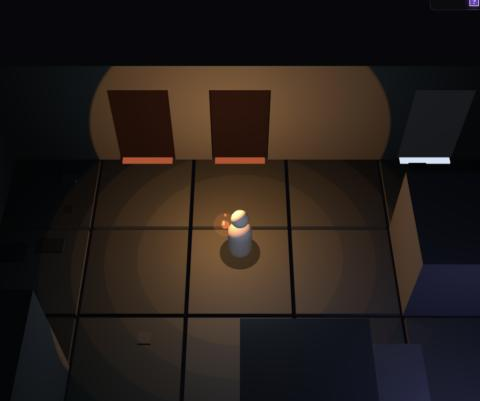
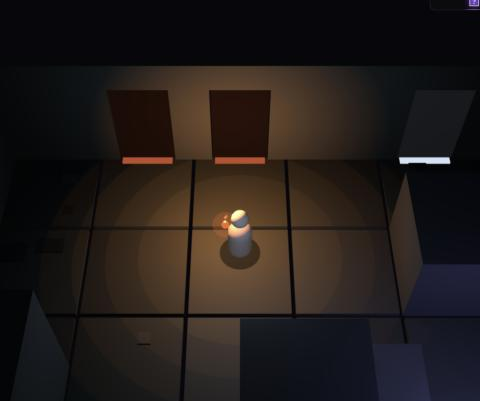
procedural-dungeon-engine: walls fade smoothly instead of a hard lamp edge
Upright faces skip the hard edge and bands: they ramp to dark across the
bands' stretch (LIGHT.wallSmooth, wallCurve), roughly matching the floor's
steps. Replaces wallBands.

diff --git a/sketches/procedural-dungeon-engine/app/walk/lamp.js b/sketches/procedural-dungeon-engine/app/walk/lamp.js
@@ -304,7 +304,8 @@
     soft: 0.03,         // cells: anti-aliasing across the edge (0 is razor sharp)
     sphere: true,       // the edge is a sphere around the lamp (off: a cylinder, cut straight up walls)
     banded: true,       // step the light down in bands just inside the edge (on the floor and block tops)
-    wallBands: 0,       // how much walls and other upright faces band too (0: the plain edge, 1: as the floor)
+    wallSmooth: 1,      // walls and other upright faces: 1 a smooth falloff over the bands' stretch, 0 cut like the floor
+    wallCurve: 1,       // the walls' falloff: 1 a straight ramp (about the bands' average); over 1 darker sooner
     bands: 3,           // how many
     bandWidth: 0.32,    // cells each, on the floor
     bandFloor: 0.2,     // the outermost band's brightness (the inner ones step up to full)
@@ -329,7 +330,7 @@
   // uniform's value by reference when it isn't a vector, colour, matrix or
   // texture), so setting it once a frame reaches them all.
   // center: the lamp's world xyz, radius on the floor; band: count, width, floor, soft;
-  // shape: sphere (1) or cylinder (0), how much upright faces band
+  // shape: sphere (1) or cylinder (0), wallSmooth, the walls' ramp width, wallCurve
   const lampMask = { center: new THREE.Vector4(), band: new THREE.Vector4(), shape: new THREE.Vector4() };
   for (const k of ['lambert', 'phong', 'standard', 'physical', 'toon']) {
     if (THREE.ShaderLib[k]) THREE.ShaderLib[k].uniforms.lampMask = { value: lampMask };
@@ -341,8 +342,9 @@ uniform LampMask lampMask;
 // of the sphere around the lamp through this point: across the floor it's
 // just the distance from you; up a wall it grows with the height off the
 // lamp's, so the edge curves. As a cylinder, it's the distance across the floor.
-// Bands only on faces turned up (the floor, block tops), blending out as a
-// face turns upright, so walls get the plain edge (shape.y of the banding).
+// Faces turned up (the floor, block tops) get the hard edge and its bands.
+// Upright faces (walls) instead fade smoothly to dark across the same
+// stretch, like the light before the mask; faces in between blend.
 float lampMaskAt(vec3 viewPos, vec3 normal) {
   float R = lampMask.center.w;
   if (R <= 0.0) return 1.0;
@@ -356,11 +358,11 @@ float lampMaskAt(vec3 viewPos, vec3 normal) {
   float n = lampMask.band.x;
   if (n > 0.5) {
     float i = ceil((R - d) / lampMask.band.y); // 1 in the outermost band
-    float flatness = smoothstep(0.55, 0.85, abs(dot(normalize(normal), up)));
-    float k = mix(lampMask.shape.y, 1.0, flatness);
-    if (i <= n) m *= mix(1.0, mix(lampMask.band.z, 1.0, (max(i, 1.0) - 1.0) / n), k);
+    if (i <= n) m *= mix(lampMask.band.z, 1.0, (max(i, 1.0) - 1.0) / n);
   }
-  return m;
+  float upright = (1.0 - smoothstep(0.55, 0.85, abs(dot(normalize(normal), up)))) * lampMask.shape.y;
+  float wall = pow(clamp((R - d) / max(lampMask.shape.z, 0.001), 0.0, 1.0), lampMask.shape.w);
+  return mix(m, wall, upright);
 }
 `;
   THREE.ShaderChunk.lights_fragment_begin = THREE.ShaderChunk.lights_fragment_begin.replace(
@@ -487,7 +489,7 @@ float lampMaskAt(vec3 viewPos, vec3 normal) {
     const edge = edgeRadius() * (1 - LIGHT.breathe + LIGHT.breathe * Math.min(1.2, bright));
     // Centred over you at the lamp's height, so the floor circle is the edge creatures read (lightRadius).
     lampMask.center.set(p.x * S, Math.max(0, lampWorld.y), p.y * S, Math.max(0.01, edge * S));
-    lampMask.shape.set(LIGHT.sphere ? 1 : 0, LIGHT.wallBands, 0, 0);
+    lampMask.shape.set(LIGHT.sphere ? 1 : 0, LIGHT.wallSmooth, Math.max(0.01, LIGHT.bands * LIGHT.bandWidth * S), Math.max(0.05, LIGHT.wallCurve));
     lampMask.band.set(LIGHT.banded ? Math.round(LIGHT.bands) : 0, Math.max(0.01, LIGHT.bandWidth * S),
       LIGHT.bandFloor, Math.max(0, LIGHT.soft * S));
 

diff --git a/sketches/procedural-dungeon-engine/PLAY.md b/sketches/procedural-dungeon-engine/PLAY.md
@@ -221,7 +221,8 @@ Determinism).
   and much shorter; and it ends at a hard edge, a circle around you that's
   there even at a full lamp and closes in as the fuel drops, stepping
   down in three bands on the floor just inside it. It's where a sphere of
-  light meets the floor, so on walls it curves, as one smooth edge. Past it, only the dark. Walking, the
+  light meets the floor, and walls fade into the dark
+  smoothly instead, as they did before the edge. Past it, only the dark. Walking, the
   embers trail behind you; standing still, they rise in a slow, swaying
   column. Gaining entropy pops a purple +◆ over your head (+◆◆◆ for a
   charge).
@@ -492,7 +493,7 @@ you pass out and wake at your last waystone.
 | Ghost effects | full-screen pass (only while active; 8-bit sRGB target, no MSAA, CSS-pixel resolution that adapts down to half if the effect slows frames): wobble = layered sine warp plus slight colour split; glitch = torn slices, purple static, scanlines, wide colour split | wobble rises with nearness (within ~4 cells). Contact: a full-strength glitch flash that fades in 0.35 s, settling to a quarter-strength glitch while in contact. Each holds 1.2–1.5 s after, then decays |
 | Lamp HUD | bottom left: a lantern icon (92 px; 64 on phones) in the lamp's colour, its flame scaled to 100 / 80 / 62 / 45% by stage; a fluid meter of 6 sections (32 × 20 px; more with sigils), the burning one dimmer; the stamina bar, then the thread (and relight words when the lamp is off). The icon shimmers gold by a sconce, violet at a well; tap it to cover or relight | violet liquid, gold for a sigil's extra sections |
 | Lamp streams | motes flowing in an arc into the lamp from what feeds it: a lit sconce's flame (warm) while it shelters you, a well's pool (its colour) while you drink (`STREAM` in `lamp.js`, 16/s, 0.6 s each) | |
-| Lamp | the held sphere goes yellow → orange → red → grey with the fuel (full at 3 charges). Unrest by fuel (`UNREST` in `lamp.js`, blended): flicker depth 0.03 at full, 0.08 at 2, 0.38 at 1, then settling to 0.02 at empty while a slow irregular fade grows to 0.5; dying, a brightness swell of up to 35% while you move. Halo (`HALO`): flat, hard-edged, see-through, about 4x the lamp across at full, shrinking to 40%, wobbling with the flicker and fade (it can exceed its average), opacity 0.3 down to 0.12, until the lamp is out. Light (`LIGHT`): intensity 25%–100%, falloff reach 18%–100%, colour following the lamp toward red; a hard edge at 3.2 cells from you at full (3 charges or more), down to 0.9 at empty (`radiusFull`, `radiusEmpty`, `radiusCurve` 1), a sphere around you at the lamp's height that meets the floor in that circle, so on walls the edge curves like a pool of light (`sphere`; off, a cylinder cut straight up the walls), breathing 4% with the flicker (`breathe`), 0.03-cell anti-aliasing (`soft`); past it only the ambient fill. Banding (`banded`, on): 3 steps of 0.32 cells on the floor just inside the edge, the outermost at 20% (`bands`, `bandWidth`, `bandFloor`), each a smaller sphere. Only faces turned up band (the floor, block tops); walls and other upright faces get the plain edge (`wallBands` 0; 1 bands them like the floor). Creepers read the edge (`lightRadius()`). Embers (`EMBER`): walking, up to 22/s spraying (0.35–0.75 s); standing, 9/s in a swaying column (0.9–1.6 s); dying, 0.7/s, red. Covered or out: the light eases to nothing, no halo or embers | |
+| Lamp | the held sphere goes yellow → orange → red → grey with the fuel (full at 3 charges). Unrest by fuel (`UNREST` in `lamp.js`, blended): flicker depth 0.03 at full, 0.08 at 2, 0.38 at 1, then settling to 0.02 at empty while a slow irregular fade grows to 0.5; dying, a brightness swell of up to 35% while you move. Halo (`HALO`): flat, hard-edged, see-through, about 4x the lamp across at full, shrinking to 40%, wobbling with the flicker and fade (it can exceed its average), opacity 0.3 down to 0.12, until the lamp is out. Light (`LIGHT`): intensity 25%–100%, falloff reach 18%–100%, colour following the lamp toward red; a hard edge at 3.2 cells from you at full (3 charges or more), down to 0.9 at empty (`radiusFull`, `radiusEmpty`, `radiusCurve` 1), a sphere around you at the lamp's height that meets the floor in that circle, so on walls the edge curves like a pool of light (`sphere`; off, a cylinder cut straight up the walls), breathing 4% with the flicker (`breathe`), 0.03-cell anti-aliasing (`soft`); past it only the ambient fill. Banding (`banded`, on): 3 steps of 0.32 cells on the floor just inside the edge, the outermost at 20% (`bands`, `bandWidth`, `bandFloor`), each a smaller sphere. The hard edge and bands are only on faces turned up (the floor, block tops). Walls and other upright faces have no edge: they fade smoothly to dark across the bands' stretch, a straight ramp that averages about each band's brightness (`wallSmooth` 1; 0 cuts them like the floor; `wallCurve` 1, over 1 darkens sooner). Creepers read the edge (`lightRadius()`). Embers (`EMBER`): walking, up to 22/s spraying (0.35–0.75 s); standing, 9/s in a swaying column (0.9–1.6 s); dying, 0.7/s, red. Covered or out: the light eases to nothing, no halo or embers | |
 | Entropy popup | "+◆" (one diamond per shard's worth, up to three) floats up over the head in violet; "−◆" greyer when a block takes its charge back | |
 | Ghost markers | on a ring around the figure, radius 42% of the shorter screen side | idle ghosts: a faint ghost icon, violet border |
 | Camera | fixed 3/4 top-down view from the south, smooth follow | W is always north on screen and on the chart |

diff --git a/sketches/procedural-dungeon-engine/CHANGELOG.md b/sketches/procedural-dungeon-engine/CHANGELOG.md
@@ -633,9 +633,10 @@ All notable changes to this sketch are logged here, per
   (centred over you at the lamp's height). On the floor nothing changes
   and creepers read the same edge. On walls the edge and the bands curve
   like a pool of light. `LIGHT.sphere` (on) switches back to the cylinder
-  for comparison. Bands only on faces turned up (the floor, block tops),
-  blending out as a face turns upright, so walls get the plain curved edge
-  (`LIGHT.wallBands`, 0; 1 bands walls too). Banding is on by default, with the playtest settings: 3
+  for comparison. The hard edge and bands are only on faces turned up (the
+  floor, block tops). Walls and other upright faces fade smoothly to dark
+  across the bands' stretch instead, a ramp that roughly follows the
+  bands' steps (`LIGHT.wallSmooth` 1, `wallCurve` 1). Banding is on by default, with the playtest settings: 3
   bands of 0.32 cells on the floor, the outermost at 20% (was 0.22 and
   30%, off). Screenshots in `notes/screenshots/lamp-edge-sphere-*.png`
   (`-floor-bands` is the default)

diff --git a/sketches/procedural-dungeon-engine/GAME-DESIGN.md b/sketches/procedural-dungeon-engine/GAME-DESIGN.md
@@ -492,8 +492,8 @@ fuel you need to get there.
   light goes, and creepers wait just past that edge. Smaller than the old
   falloff, which lit across whole rooms. The edge is where a sphere of
   light around the lamp meets the floor, so on walls it curves like a pool
-  of light. On the floor it steps down to it in three bands; walls get the
-  plain edge (2026-10-26).
+  of light. On the floor it steps down to it in three bands; walls have no
+  edge and fade smoothly to dark over the same stretch (2026-10-26).
 - **Running out:** the lamp goes out and stays out until you relight it
   (R, a shard), and the dark drains your psychic stamina (section 12). Find light or entropy in time, or pass out and
   wake at your last waystone. Everything else stays: the map, what you
